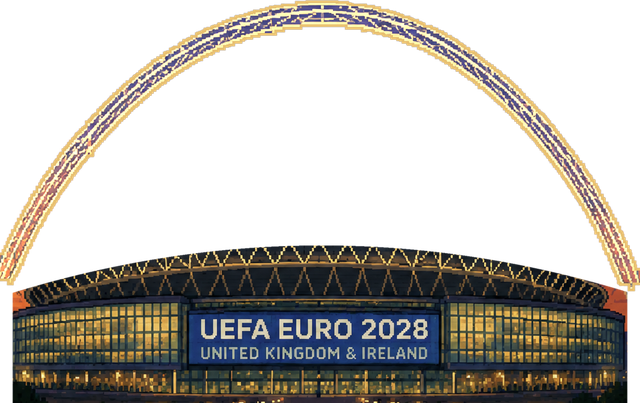
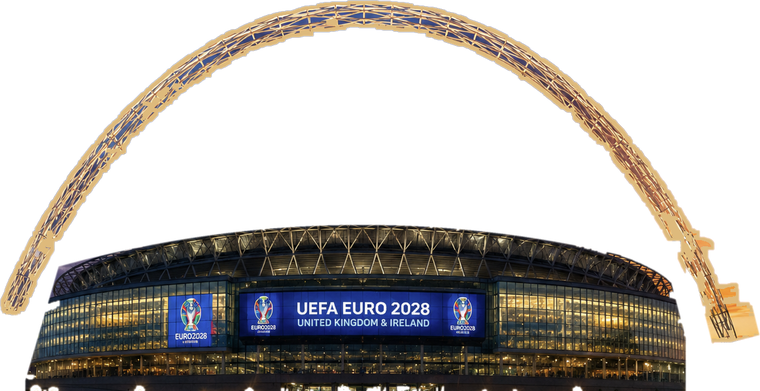
EM-Kachel: neues Wembley-Motiv aus Foto, freigestellt

diff --git a/index.html b/index.html
@@ -184,7 +184,7 @@ body{
 .karte:has(.k-deko-flug) .k-einsatz{padding-right:124px}
 .k-deko-turm{right:18px; bottom:14px; height:min(72%,230px); filter:drop-shadow(0 4px 10px rgba(0,0,0,.32))}
 .k-deko-em{height:66px; right:10px; bottom:12px}
-.karte:has(.k-deko-em) .k-einsatz{padding-right:112px}
+.karte:has(.k-deko-em) .k-einsatz{padding-right:140px}
 
 /* Countdown-Plakette auf der Kachel */
 .k-count{
@@ -395,7 +395,7 @@ body{
         <div class="k-einsatz">Beamer · Aktualität · Namensrechte</div>
         <span class="k-count" id="emCount"></span>
         <span class="k-aktion">Tool öffnen <span class="pfeil">→</span></span>
-              <img class="k-deko k-deko-em" src="kachel_em2028.png?v=2" alt="" onerror="this.style.display=&#39;none&#39;">
+              <img class="k-deko k-deko-em" src="kachel_em2028.png?v=3" alt="" onerror="this.style.display=&#39;none&#39;">
       </a>
 
       <a class="karte" href="notenrechner.html" data-kat="rechner">
